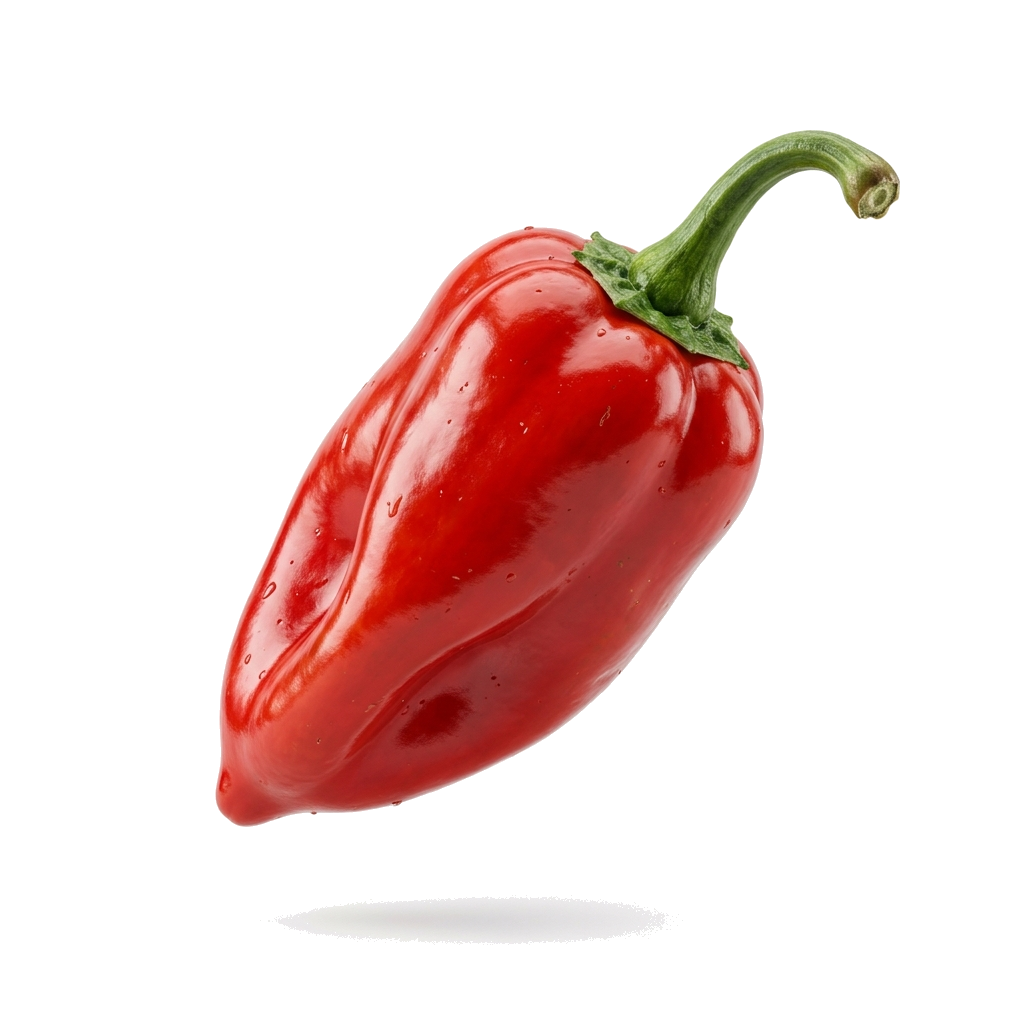
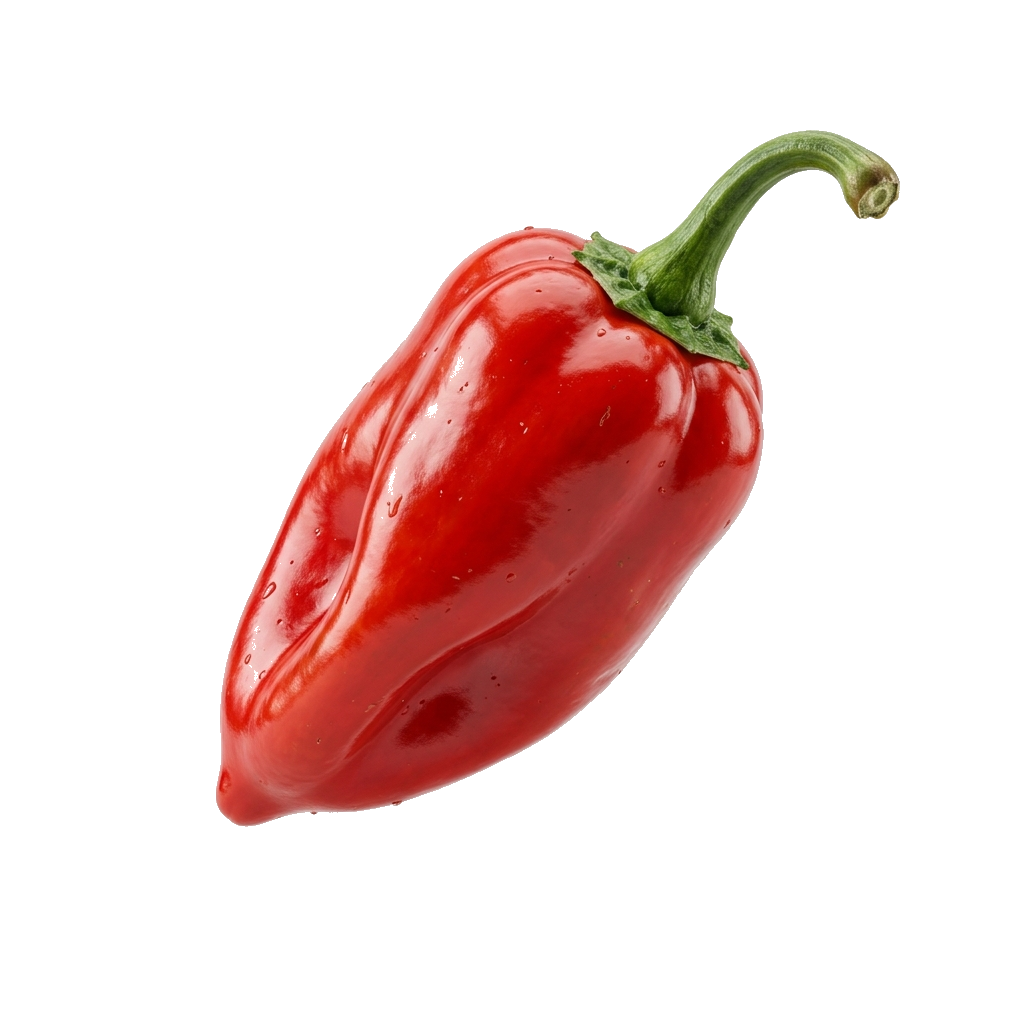
Re-add floating chilli with 100% clean transparent PNG background positioned nicely in upper hero area

Changed region(s): [[0.2812, 0.875, 0.625, 0.9375]]

diff --git a/frontend/src/index.css b/frontend/src/index.css
@@ -215,10 +215,11 @@ img {
 }
 
 .chilli-drift {
-  bottom: 8%;
-  left: 11%;
-  width: 110px;
-  animation: drift-slow-2 12s ease-in-out infinite;
+  top: 15%;
+  left: 2%;
+  width: 90px;
+  animation: drift-slow-2 10s ease-in-out infinite;
+  opacity: 0.9;
 }
 
 .peppercorns-drift {

diff --git a/frontend/src/pages/Home.jsx b/frontend/src/pages/Home.jsx
@@ -9,6 +9,7 @@ function Home({ products, navigateTo, addToCart, loading }) {
       <img src="/images/mint_leaf_icon.png" className="floating-leaf leaf-1" aria-hidden="true" alt="Floating mint leaf" />
       <img src="/images/mint_leaf_icon.png" className="floating-leaf leaf-2" aria-hidden="true" alt="Floating mint leaf" />
       <img src="/images/turmeric_icon.png" className="floating-leaf leaf-4" aria-hidden="true" alt="Floating turmeric root" />
+      <img src="/images/chilli_icon.png" className="floating-leaf chilli-drift" aria-hidden="true" alt="Floating red chilli" />
 
       {/* Hero Section - Matching Designer Screen 1 */}
       <section className="designer-hero">

diff --git a/frontend/src/pages/QRPage.jsx b/frontend/src/pages/QRPage.jsx
@@ -24,6 +24,7 @@ function QRPage({ navigateTo }) {
       {/* Decorative Drifting Floating 3D Spice Icons */}
       <img src="/images/mint_leaf_icon.png" className="floating-leaf leaf-1" aria-hidden="true" alt="" />
       <img src="/images/turmeric_icon.png" className="floating-leaf leaf-4" aria-hidden="true" alt="" />
+      <img src="/images/chilli_icon.png" className="floating-leaf chilli-drift" aria-hidden="true" alt="" />
 
       {/* Decorative Corner Raw Spice Dishes & Artwork Elements */}
       <div className="qr-corner-spice corner-top-left" aria-hidden="true">